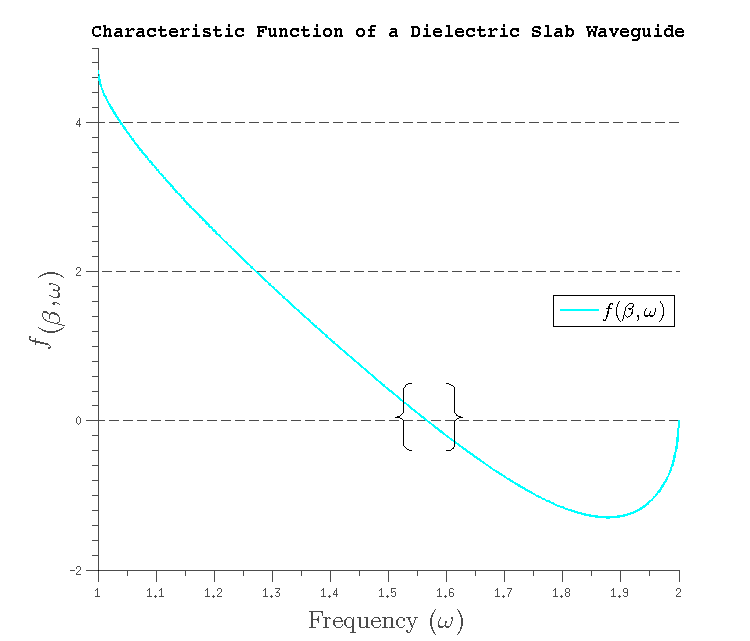
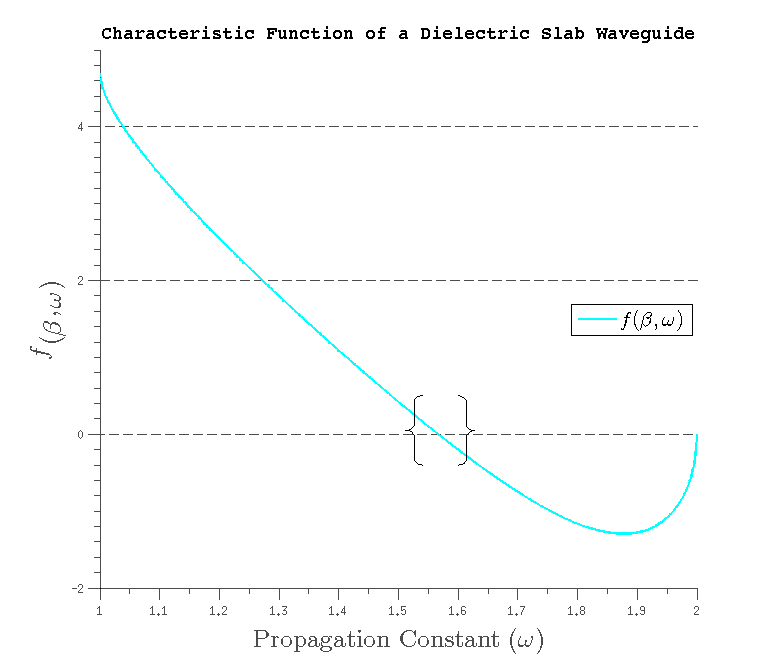
finished through part 3

diff --git a/HW2/src/html/proj2.html b/HW2/src/html/proj2.html
@@ -6,7 +6,7 @@
    <!--
 This HTML was auto-generated from MATLAB code.
 To make changes, update the MATLAB code and republish this document.
-      --><title>MATH 3315 Project 2 - Root Acquisition - By Zack Fout</title><meta name="generator" content="MATLAB 8.3"><link rel="schema.DC" href="http://purl.org/dc/elements/1.1/"><meta name="DC.date" content="2015-02-23"><meta name="DC.source" content="proj2.m"><style type="text/css">
+      --><title>MATH 3315 Project 2 - Root Acquisition - By Zack Fout</title><meta name="generator" content="MATLAB 8.3"><link rel="schema.DC" href="http://purl.org/dc/elements/1.1/"><meta name="DC.date" content="2015-03-02"><meta name="DC.source" content="proj2.m"><style type="text/css">
 html,body,div,span,applet,object,iframe,h1,h2,h3,h4,h5,h6,p,blockquote,pre,a,abbr,acronym,address,big,cite,code,del,dfn,em,font,img,ins,kbd,q,s,samp,small,strike,strong,sub,sup,tt,var,b,u,i,center,dl,dt,dd,ol,ul,li,fieldset,form,label,legend,table,caption,tbody,tfoot,thead,tr,th,td{margin:0;padding:0;border:0;outline:0;font-size:100%;vertical-align:baseline;background:transparent}body{line-height:1}ol,ul{list-style:none}blockquote,q{quotes:none}blockquote:before,blockquote:after,q:before,q:after{content:'';content:none}:focus{outine:0}ins{text-decoration:none}del{text-decoration:line-through}table{border-collapse:collapse;border-spacing:0}
 
 html { min-height:100%; margin-bottom:1px; }
@@ -66,24 +66,24 @@ table td { padding:7px 5px; text-align:left; vertical-align:top; border:1px soli
 
 
 
-  </style></head><body><div class="content"><h1><b>MATH 3315 Project 2 - Root Acquisition - By Zack Fout</b></h1><!--introduction--><!--/introduction--><h2>Contents</h2><div><ul><li><a href="#1">Part 1. The Characteristic Function of a Dielectric Slab Waveguide</a></li><li><a href="#3">Part 2. Root Acquisition using the Bisection Method</a></li></ul></div><h2>Part 1. The Characteristic Function of a Dielectric Slab Waveguide<a name="1"></a></h2><p>An optical waveguide is a physical structure that guides electromagentic waves in the optical spectrum. Optical waveguides have many important engineering applications where they are typically used as the transmission medium for optical communications systems. The Slab Waveguide is a theoretical dielectric structure that is used to understand practical rectangular-geometry optical waveguides. The characteristic function of this waveguide is given by:</p><p><img src="proj2_eq46008.png" alt="$$f(\beta, \omega) = cos(\alpha_1)(\alpha_1 - {\alpha_1}{\alpha_0}) + sin(\alpha_1)({\alpha_1}^{2} - {\alpha_0}^{2})$">,</p><p>where</p><p><img src="proj2_eq20785.png" alt="$$\alpha_0 = \sqrt{\beta^{2} - {n_0}^{2}{\omega}^{2}}$"></p><p><img src="proj2_eq99549.png" alt="$$\alpha_1 = \sqrt{{n_1}^{2}{\omega}^{2} - \beta^{2}}$"></p><p>and <img src="proj2_eq16661.png" alt="$${n_0}$">, <img src="proj2_eq10646.png" alt="$${n_1}$"> are the refractive indices of the dielectric layers, <img src="proj2_eq93963.png" alt="$$\omega$"> is the frequency of the guided wave and <img src="proj2_eq83200.png" alt="$$\beta$"> is the propagation constant. In order to determine which optical waves are guided by the waveguide, the equation</p><p><img src="proj2_eq43614.png" alt="$$f(\beta, \omega) = 0$"></p><p>must be solved for <img src="proj2_eq83200.png" alt="$$\beta$"> where <img src="proj2_eq93963.png" alt="$$\omega$"> is a given parameter. If the refractive indices are fixed at <img src="proj2_eq53202.png" alt="$$n_0 = 1$"> and <img src="proj2_eq79952.png" alt="$$n_1 = 2$">, then different values of <img src="proj2_eq83200.png" alt="$$\beta$"> may be evaluated in order to determine the exact <img src="proj2_eq83200.png" alt="$$\beta$"> where the characteristic function is equal to zero. Note that from the definitions of <img src="proj2_eq32235.png" alt="$$\alpha_0$"> and <img src="proj2_eq58596.png" alt="$$\alpha_1$"> it is clear that real values of <img src="proj2_eq76529.png" alt="$$f(\beta, \omega)$"> may only be computed over the interval <img src="proj2_eq22789.png" alt="$$[{{n_0}\omega}, {{n_1}\omega}]$">. The following MATLAB&reg; code evaluates the characteristic function for a given value of <img src="proj2_eq09272.png" alt="$$\omega = 1$"> and plots the resulting curve:</p><pre class="codeinput">omega = 1.0;
+  </style></head><body><div class="content"><h1><b>MATH 3315 Project 2 - Root Acquisition - By Zack Fout</b></h1><!--introduction--><!--/introduction--><h2>Contents</h2><div><ul><li><a href="#1">Part 1. The Characteristic Function of a Dielectric Slab Waveguide</a></li><li><a href="#3">Part 2. Root Acquisition using the Bisection Method</a></li><li><a href="#4">Part 3. Evaluating Different Frequency Values</a></li></ul></div><h2>Part 1. The Characteristic Function of a Dielectric Slab Waveguide<a name="1"></a></h2><p>An optical waveguide is a physical structure that guides electromagentic waves in the optical spectrum. Optical waveguides have many important engineering applications where they are typically used as the transmission medium for optical communications systems. The Slab Waveguide is a theoretical dielectric structure that is used to understand practical rectangular-geometry optical waveguides. The characteristic function of this waveguide is given by:</p><p><img src="proj2_eq46008.png" alt="$$f(\beta, \omega) = cos(\alpha_1)(\alpha_1 - {\alpha_1}{\alpha_0}) + sin(\alpha_1)({\alpha_1}^{2} - {\alpha_0}^{2})$">,</p><p>where</p><p><img src="proj2_eq20785.png" alt="$$\alpha_0 = \sqrt{\beta^{2} - {n_0}^{2}{\omega}^{2}}$"></p><p><img src="proj2_eq99549.png" alt="$$\alpha_1 = \sqrt{{n_1}^{2}{\omega}^{2} - \beta^{2}}$"></p><p>and <img src="proj2_eq16661.png" alt="$${n_0}$">, <img src="proj2_eq10646.png" alt="$${n_1}$"> are the refractive indices of the dielectric layers, <img src="proj2_eq93963.png" alt="$$\omega$"> is the frequency of the guided wave and <img src="proj2_eq83200.png" alt="$$\beta$"> is the propagation constant. In order to determine which optical waves are guided by the waveguide, the equation</p><p><img src="proj2_eq43614.png" alt="$$f(\beta, \omega) = 0$"></p><p>must be solved for <img src="proj2_eq83200.png" alt="$$\beta$"> where <img src="proj2_eq93963.png" alt="$$\omega$"> is a given parameter. If the refractive indices are fixed at <img src="proj2_eq53202.png" alt="$$n_0 = 1$"> and <img src="proj2_eq79952.png" alt="$$n_1 = 2$">, then different values of <img src="proj2_eq83200.png" alt="$$\beta$"> may be evaluated in order to determine the exact <img src="proj2_eq83200.png" alt="$$\beta$"> where the characteristic function is equal to zero. Note that from the definitions of <img src="proj2_eq32235.png" alt="$$\alpha_0$"> and <img src="proj2_eq58596.png" alt="$$\alpha_1$"> it is clear that real values of <img src="proj2_eq76529.png" alt="$$f(\beta, \omega)$"> may only be computed over the interval <img src="proj2_eq22789.png" alt="$$[{{n_0}\omega}, {{n_1}\omega}]$">. The following MATLAB&reg; code evaluates the characteristic function for a given value of <img src="proj2_eq09272.png" alt="$$\omega = 1$"> and plots the resulting curve:</p><pre class="codeinput">omega = 1.0;
 beta = omega * linspace(1, 2, 1000); <span class="comment">% calculate interval of betas</span>
 <span class="keyword">for</span> i = 1 : 1000
     y(i) = waveguide(beta(i), omega); <span class="comment">% compute waveguide function</span>
 <span class="keyword">end</span>
 
-<span class="comment">% The following code plots and formats the waveguide function</span>
+<span class="comment">% The following lines of code plot and format the waveguide function</span>
 figure(<span class="string">'Units'</span>, <span class="string">'pixels'</span>, <span class="keyword">...</span>
     <span class="string">'Position'</span>, [100 100 750 800]);
+set(gcf,<span class="string">'Color'</span>,[1,0.4,0.6]);
 hold <span class="string">on</span>;
-figLine = line(beta, y);
-set(figLine, <span class="keyword">...</span>
+figLine = plot(beta, y, <span class="keyword">...</span>
     <span class="string">'LineStyle'</span>, <span class="string">'-'</span>, <span class="keyword">...</span>
     <span class="string">'LineWidth'</span>, 2, <span class="keyword">...</span>
     <span class="string">'Color'</span>, <span class="string">'c'</span>);
 
 hTitle = title(<span class="string">'Characteristic Function of a Dielectric Slab Waveguide'</span>);
-hXLabel = xlabel(<span class="string">'Frequency $$(\omega)$$'</span>);
+hXLabel = xlabel(<span class="string">'Propagation Constant $$(\omega)$$'</span>);
 hYLabel = ylabel(<span class="string">'$$f(\beta, \omega)$$'</span>);
 
 set([hXLabel, hYLabel], <span class="keyword">...</span>
@@ -119,7 +119,32 @@ set(gca, <span class="keyword">...</span>
     <span class="string">'XColor'</span>, [.3 .3 .3], <span class="keyword">...</span>
     <span class="string">'YColor'</span>, [.3 .3 .3], <span class="keyword">...</span>
     <span class="string">'LineWidth'</span>, 1);
-</pre><img vspace="5" hspace="5" src="proj2_01.png" alt=""> <p>As you can see by visually inspecting the graph, the solution <img src="proj2_eq83200.png" alt="$$\beta$"> to the equation <img src="proj2_eq43614.png" alt="$$f(\beta, \omega) = 0$"> lies somewhere between the values 1.56 and 1.57.</p><h2>Part 2. Root Acquisition using the Bisection Method<a name="3"></a></h2><p class="footer"><br><a href="http://www.mathworks.com/products/matlab/">Published with MATLAB&reg; R2014a</a><br></p></div><!--
+</pre><img vspace="5" hspace="5" src="proj2_01.png" alt=""> <p>As you can see by visually inspecting the graph, the solution <img src="proj2_eq83200.png" alt="$$\beta$"> to the equation <img src="proj2_eq43614.png" alt="$$f(\beta, \omega) = 0$"> lies somewhere between the values 1.56 and 1.57.</p><h2>Part 2. Root Acquisition using the Bisection Method<a name="3"></a></h2><p>The Bisection Method is an iterative approach that will be used here to approximate the exact root of the characteristic function. The method works by following a simple assumption: for a given continuous function over an interval [a, b], if f(a) is less than zero and f(b) is greater than zero, then the root of the function <i>must</i> lie within this interval. Then, the midpoint of the interval <i>c</i> is computed and the function is evaluated at c. If f(a) and f(c) have opposite signs, then the root must lie within [a, c] and the original interval [a, b] is split in half. Similarly, if instead f(c) and f(b) have opposite signs, then the interval is split into [c, b]. By iteratively calculating succesive intervals in this way a sufficiently small interval is found, and the function evaluated at the midpoint of this interval is used to approximate the true root. The function p2bisect.m implements the bisection method for the waveguide function, the results of which are shown below. Note that the frequency <img src="proj2_eq93963.png" alt="$$\omega$"> is still equal to one:</p><pre class="codeinput">a = 1.5;
+b = 1.6;
+N = bisect_iterations(a, b);
+[c, res] = p2bisect(a, b, N, omega);
+fprintf(<span class="string">'The approximated root of the waveguide function is: %.15f.\n'</span>, c);
+fprintf(<span class="string">'The number of iterations required '</span>);
+fprintf(<span class="string">'to compute the root are: %g.\n'</span>, N);
+fprintf(<span class="string">'The residual of the root is: %d.\n'</span>, res);
+</pre><pre class="codeoutput">The approximated root of the waveguide function is: 1.565836654057603.
+The number of iterations required to compute the root are: 37.
+The residual of the root is: 6.580847e-13.
+</pre><h2>Part 3. Evaluating Different Frequency Values<a name="4"></a></h2><pre class="codeinput">omega = 8.0;
+beta = omega * linspace(1, 2, 1000); <span class="comment">% calculate interval of betas</span>
+<span class="keyword">for</span> i = 1 : 1000
+    y(i) = waveguide(beta(i), omega); <span class="comment">% compute waveguide function</span>
+<span class="keyword">end</span>
+
+<span class="comment">% The following lines of code plot and format the waveguide function</span>
+figure(<span class="string">'Units'</span>, <span class="string">'pixels'</span>, <span class="keyword">...</span>
+    <span class="string">'Position'</span>, [100 100 1200 800]);
+hold <span class="string">on</span>;
+figLine = plot(beta, y, <span class="keyword">...</span>
+    <span class="string">'LineStyle'</span>, <span class="string">'-'</span>, <span class="keyword">...</span>
+    <span class="string">'LineWidth'</span>, 2, <span class="keyword">...</span>
+    <span class="string">'Color'</span>, <span class="string">'c'</span>);
+</pre><img vspace="5" hspace="5" src="proj2_02.png" alt=""> <p class="footer"><br><a href="http://www.mathworks.com/products/matlab/">Published with MATLAB&reg; R2014a</a><br></p></div><!--
 ##### SOURCE BEGIN #####
 %% *MATH 3315 Project 2 - Root Acquisition - By Zack Fout*
 %% Part 1. The Characteristic Function of a Dielectric Slab Waveguide
@@ -163,18 +188,18 @@ for i = 1 : 1000
     y(i) = waveguide(beta(i), omega); % compute waveguide function
 end
 
-% The following code plots and formats the waveguide function
+% The following lines of code plot and format the waveguide function
 figure('Units', 'pixels', ...
     'Position', [100 100 750 800]);
+set(gcf,'Color',[1,0.4,0.6]);
 hold on;
-figLine = line(beta, y);
-set(figLine, ...
+figLine = plot(beta, y, ...
     'LineStyle', '-', ...
     'LineWidth', 2, ...
     'Color', 'c');
 
 hTitle = title('Characteristic Function of a Dielectric Slab Waveguide');
-hXLabel = xlabel('Frequency $$(\omega)$$');
+hXLabel = xlabel('Propagation Constant $$(\omega)$$');
 hYLabel = ylabel('$$f(\beta, \omega)$$');
 
 set([hXLabel, hYLabel], ...
@@ -215,5 +240,46 @@ set(gca, ...
 % to the equation $$f(\beta, \omega) = 0$ lies somewhere between the values
 % 1.56 and 1.57.
 %% Part 2. Root Acquisition using the Bisection Method
+% The Bisection Method is an iterative approach that will be used here to
+% approximate the exact root of the characteristic function. The method
+% works by following a simple assumption: for a given continuous function 
+% over an interval [a, b], if f(a) is less than zero and f(b) is greater
+% than zero, then the root of the function _must_ lie within this interval.
+% Then, the midpoint of the interval _c_ is computed and the function is
+% evaluated at c. If f(a) and f(c) have opposite signs, then the root must
+% lie within [a, c] and the original interval [a, b] is split in half.
+% Similarly, if instead f(c) and f(b) have opposite signs, then the
+% interval is split into [c, b]. By iteratively calculating succesive
+% intervals in this way a sufficiently small interval is found, and the 
+% function evaluated at the midpoint of this interval is used to
+% approximate the true root. The function p2bisect.m implements the
+% bisection method for the waveguide function, the results of which are
+% shown below. Note that the frequency $$\omega$ is still equal to one:
+
+a = 1.5;
+b = 1.6;
+N = bisect_iterations(a, b);
+[c, res] = p2bisect(a, b, N, omega);
+fprintf('The approximated root of the waveguide function is: %.15f.\n', c);
+fprintf('The number of iterations required ');
+fprintf('to compute the root are: %g.\n', N);
+fprintf('The residual of the root is: %d.\n', res);
+%% Part 3. Evaluating Different Frequency Values
+
+omega = 8.0;
+beta = omega * linspace(1, 2, 1000); % calculate interval of betas
+for i = 1 : 1000
+    y(i) = waveguide(beta(i), omega); % compute waveguide function
+end
+
+% The following lines of code plot and format the waveguide function
+figure('Units', 'pixels', ...
+    'Position', [100 100 1200 800]);
+hold on;
+figLine = plot(beta, y, ...
+    'LineStyle', '-', ...
+    'LineWidth', 2, ...
+    'Color', 'c');
+
 ##### SOURCE END #####
 --></body></html>

diff --git a/HW2/src/proj2.m b/HW2/src/proj2.m
@@ -44,14 +44,13 @@ end
 figure('Units', 'pixels', ...
     'Position', [100 100 750 800]);
 hold on;
-figLine = line(beta, y);
-set(figLine, ...
+plot(beta, y, ...
     'LineStyle', '-', ...
     'LineWidth', 2, ...
     'Color', 'c');
 
 hTitle = title('Characteristic Function of a Dielectric Slab Waveguide');
-hXLabel = xlabel('Frequency $$(\omega)$$');
+hXLabel = xlabel('Propagation Constant $$(\beta)$$');
 hYLabel = ylabel('$$f(\beta, \omega)$$');
 
 set([hXLabel, hYLabel], ...
@@ -64,12 +63,10 @@ set(hTitle, ...
     'FontSize', 14, ...
     'FontWeight', 'bold');
 
-brace1 = drawbrace([1.54, -.4], [1.54, .5], 8, 'Color', 'k');
-brace2 = drawbrace([1.60, .5], [1.60, -.4], 8, 'Color', 'k');
+drawbrace([1.54, -.45], [1.54, .45], 8, 'Color', 'k');
+drawbrace([1.58, .45], [1.58, -.45], 8, 'Color', 'k');
 
-hLegend = legend(figLine, ...
-    '$$f(\beta, \omega)$$', ...
-    'Location', 'east');
+hLegend = legend('$$f(\beta, \omega)$$','Location', 'east');
 set(hLegend, ...
     'FontSize', 16, ...
     'Interpreter', 'latex');
@@ -92,4 +89,133 @@ set(gca, ...
 % to the equation $$f(\beta, \omega) = 0$ lies somewhere between the values
 % 1.56 and 1.57.
 %% Part 2. Root Acquisition using the Bisection Method
-% 
+% The Bisection Method is an iterative approach that will be used here to
+% approximate the exact root of the characteristic function. The method
+% works by following a simple assumption: for a given continuous function 
+% over an interval [a, b], if f(a) is less than zero and f(b) is greater
+% than zero, then the root of the function _must_ lie within this interval.
+% Then, the midpoint of the interval _c_ is computed and the function is
+% evaluated at c. If f(a) and f(c) have opposite signs, then the root must
+% lie within [a, c] and the original interval [a, b] is split in half.
+% Similarly, if instead f(c) and f(b) have opposite signs, then the
+% interval is split into [c, b]. By iteratively calculating succesive
+% intervals in this way a sufficiently small interval is found, and the 
+% function evaluated at the midpoint of this interval is used to
+% approximate the true root. The function p2bisect.m implements the
+% bisection method for the waveguide function, the results of which are
+% shown below. Note that the frequency $$\omega$ is still equal to one:
+
+a = 1.5;
+b = 1.6;
+N = bisect_iterations(a, b);
+[c, res] = p2bisect(a, b, N, omega);
+fprintf('For omega = 1:\n');
+fprintf('The approximated root of the waveguide function is: %.15f.\n', c);
+fprintf('The number of iterations required ');
+fprintf('to compute the root are: %g.\n', N);
+fprintf('The residual of the root is: %d.\n', res);
+%% Part 3. Evaluating Different Frequency Values
+% Because $$\omega$ is a given parameter and the propagation constant is
+% the value we are trying to find, supplying different values of $$\omega$
+% to the waveguide function will produce different curves. If $$\omega$ is
+% set to 8, then the following graph is produced:
+
+omega = 8.0;
+beta = omega * linspace(1, 2, 1000); % calculate interval of betas
+for i = 1 : 1000
+    y(i) = waveguide(beta(i), omega); % compute waveguide function
+end
+
+% The following lines of code plot and format the waveguide function
+figure('Units', 'pixels', ...
+    'Position', [100 100 1200 800]);
+hold on;
+plot(beta, y, ...
+    'LineStyle', '-', ...
+    'LineWidth', 2, ...
+    'Color', 'r');
+
+hTitle = title('Characteristic Function of a Dielectric Slab Waveguide');
+hXLabel = xlabel('Propagation Constant $$(\beta)$$');
+hYLabel = ylabel('$$f(\beta, \omega)$$');
+
+set([hXLabel, hYLabel], ...
+    'FontSize', 20, ...
+    'Interpreter', 'latex');
+set(hXLabel, 'Position', get(hXLabel, 'Position') - [0 .3 0]);
+set(hYLabel, 'Position', get(hYLabel, 'Position') - [.04 0 0]);
+set(hTitle, ...
+    'FontName', 'Courier 10 Pitch', ...
+    'FontSize', 14, ...
+    'FontWeight', 'bold');
+
+drawbrace([9.45, -20], [9.45, 20], 8, 'Color', 'k');
+drawbrace([9.8, 20], [9.8, -20], 8, 'Color', 'k');
+
+drawbrace([11.5, -20], [11.5, 20], 8, 'Color', 'k');
+drawbrace([11.85, 20], [11.85, -20], 8, 'Color', 'k');
+
+drawbrace([13.2, -20], [13.2, 20], 8, 'Color', 'k');
+drawbrace([13.55, 20], [13.55, -20], 8, 'Color', 'k');
+
+drawbrace([14.75, -20], [14.75, 20], 8, 'Color', 'k');
+drawbrace([15.1, 20], [15.1, -20], 8, 'Color', 'k');
+
+drawbrace([15.55, -20], [15.55, 20], 8, 'Color', 'k');
+drawbrace([15.8, 20], [15.8, -20], 8, 'Color', 'k');
+
+hLegend = legend('$$f(\beta, \omega)$$', 'Location', 'northeast');
+set(hLegend, ...
+    'FontSize', 16, ...
+    'Interpreter', 'latex');
+
+set(gca, 'FontName', 'Helvetica');
+set(gca, ...
+    'Box', 'off', ...
+    'TickDir', 'out', ...
+    'TickLength', [.02 .02], ...
+    'XMinorTick', 'on', ...
+    'YMinorTick', 'on', ...
+    'YGrid', 'on', ...
+    'GridLineStyle', '--', ...
+    'YTick', -200:100:200, ...
+    'XColor', [.3 .3 .3], ...
+    'YColor', [.3 .3 .3], ...
+    'LineWidth', 1);
+%%
+% As you can see by visually inspecting the graph there are five different
+% roots of the waveguide function when $$\omega$ is equal to 8. The
+% following code will compute the roots of this function using the
+% bisection method:
+
+a = 9.0;
+b = 10.0;
+N = bisect_iterations(a, b);
+c = p2bisect(a, b, N, omega);
+fprintf('\nFor omega = 8:\n');
+fprintf('The first root of the waveguide function is: %.15f.\n', c);
+
+a = 11.0;
+b = 12.0;
+N = bisect_iterations(a, b);
+c = p2bisect(a, b, N, omega);
+fprintf('The second root of the waveguide function is: %.15f.\n', c);
+
+a = 13.0;
+b = 14.0;
+N = bisect_iterations(a, b);
+c = p2bisect(a, b, N, omega);
+fprintf('The third root of the waveguide function is: %.15f.\n', c);
+
+a = 14.0;
+b = 15.0;
+N = bisect_iterations(a, b);
+c = p2bisect(a, b, N, omega);
+fprintf('The fourth root of the waveguide function is: %.15f.\n', c);
+
+a = 15.0;
+b = 16.0;
+N = bisect_iterations(a, b);
+c = p2bisect(a, b, N, omega);
+fprintf('The fifth root of the waveguide function is: %.15f.\n', c);
+%% Root Acquisition using the Regula Falsi Method

diff --git a/HW2/src/p2bisect.m b/HW2/src/p2bisect.m
@@ -1,24 +1,29 @@
-function [c, res] = p2bisect(a,b, N, omega)
-ya = waveguide(a, omega);
-yb = waveguide(b, omega);
+%
+% This function approximates the root of the characteristic function of a 
+% dielectric slab waveguide using the bisection method. See waveguide.m
+% for more details on the waveguide function.
+%
+function [c, res] = p2bisect(a, b, N, omega)
+ya = waveguide(a, omega); % determine f(a) for the waveguide function
+yb = waveguide(b, omega); % determine f(b) for the waveguide function
 
-if ( ya*yb > 0 ) 
+if (ya*yb > 0) % if they are both positive, the root is not in the interval
     c = nan;
     return;
 end
 
 for k=0:N
-    c = 0.5*(a+b);
-    yc = waveguide(c, omega);
-    if ( ya*yc < 0 )
+    c = 0.5*(a+b); % find the arithmetic mean of the endpoints
+    yc = waveguide(c, omega); % compute f(c)
+    if (ya*yc < 0) % shrink interval to [a, c]
         yb = yc;
         b = c;
-    else
+    else % shrink interval to [c, b]
         ya = yc;
         a = c;
     end
 end
 
-c = 0.5*(a+b);
-res = abs(waveguide(c, omega));
+c = 0.5*(a+b); % final approximation of the root
+res = abs(waveguide(c, omega)); % final error on the root
 end

diff --git a/HW2/src/bisect_iterations.m b/HW2/src/bisect_iterations.m
@@ -14,11 +14,11 @@ function n = bisect_iterations(a, b, varargin)
   addOptional(p, 'eps', @isnumeric);
   parse(p, a, b, varargin{:}); % validate inputs
   
-  switch nargin
+  switch nargin % check the number of input arguments
       case 3
           n = ceil(log((p.Results.b - p.Results.a)/p.Results.eps)/log(2));
       case 2
-          n = ceil(log((p.Results.b - p.Results.a)/10^(-12))/log(2));
+          n = ceil(log((p.Results.b - p.Results.a)/power(10, -12))/log(2));
       otherwise
           error('bisect_iterations', 'Wrong number of inputs');
   end
